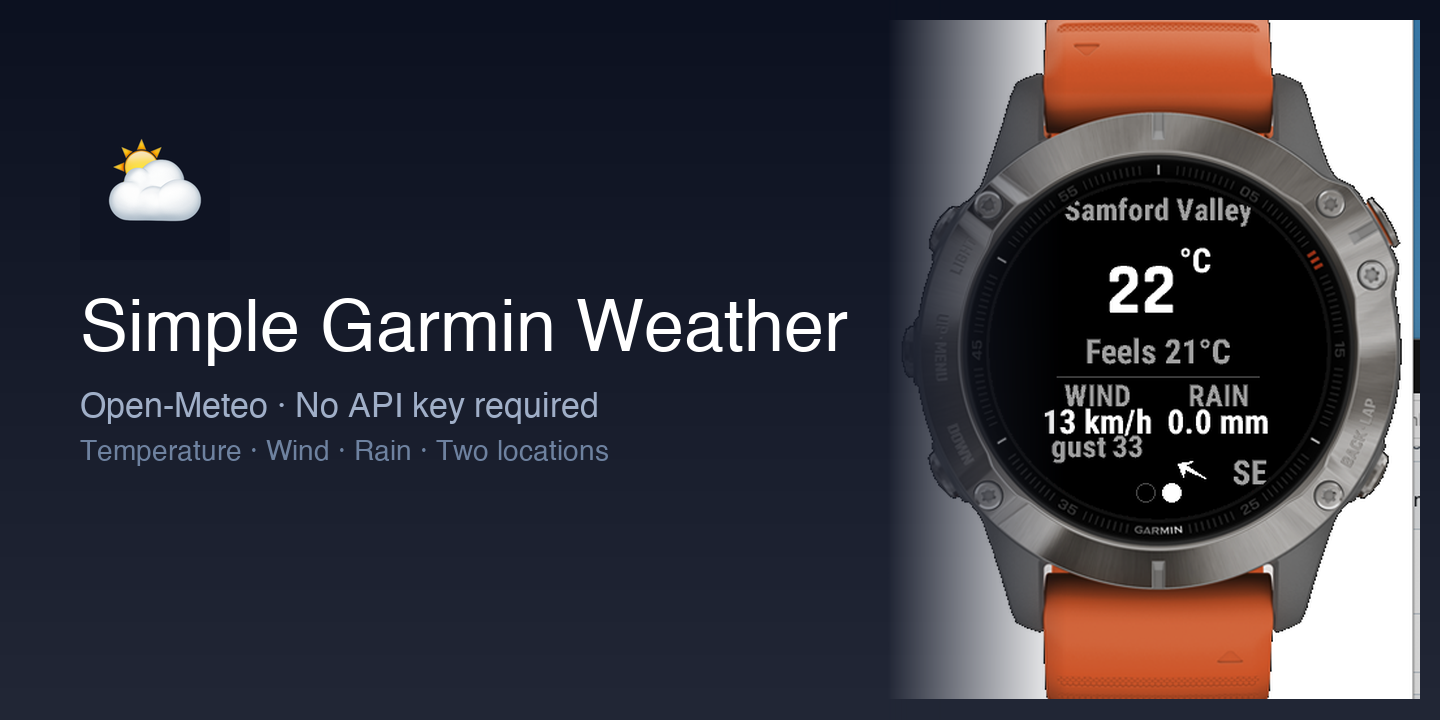
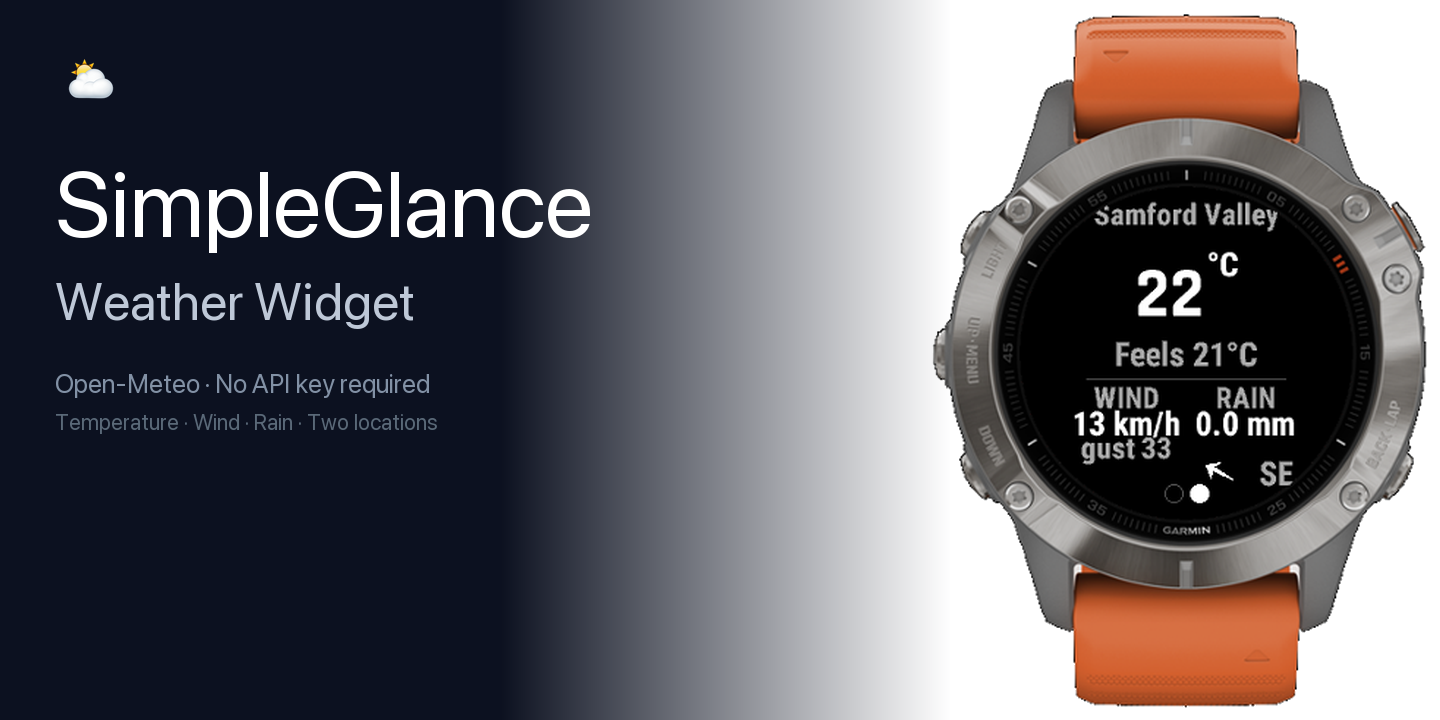
Rename to SimpleGlance Weather Widget; home location now editable via settings
- Rename app from "Simple Garmin Weather" to "SimpleGlance Weather Widget"
  to comply with Garmin trademark guidelines
- Regenerate hero (1440x720) and cover (500x500) store assets with new branding,
  dark-to-white gradient background, and colour-matched watch composite
- Add docs/generate_hero.py and docs/generate_cover.py for reproducible asset generation
- Add Home Location Name, Latitude, Longitude settings in properties.xml so users
  can configure their home location via Garmin Connect without editing source code
- Update WeatherView.mc and BackgroundService.mc to read home location from
  Application.Properties with safe fallbacks
- Update README to document new settings; update PRIVACY.md app name

diff --git a/docs/generate_hero.py b/docs/generate_hero.py
@@ -1,0 +1,111 @@
+"""
+Generates store_assets/hero_1440x720.png for the SimpleGlance Weather Widget
+Connect IQ store listing.
+
+Requirements: pip install pillow numpy
+Run from repo root: python docs/generate_hero.py
+"""
+
+from PIL import Image, ImageDraw, ImageFont
+import numpy as np
+from pathlib import Path
+
+ROOT     = Path(__file__).parent.parent
+FONT     = "/System/Library/Fonts/SFNS.ttf"
+BG_L     = np.array([12, 17, 32], dtype=float)
+WHITE    = (255, 255, 255)
+SUBWHITE = (190, 200, 215)
+GREY     = (130, 145, 165)
+DIMGREY  = (90, 105, 120)
+W, H     = 1440, 720
+GRAD_START, GRAD_END = 500, 950
+
+
+def grad_color(x: int) -> np.ndarray:
+    t = max(0.0, min(1.0, (x - GRAD_START) / (GRAD_END - GRAD_START)))
+    return (BG_L * (1 - t) + 255 * t).astype(np.uint8)
+
+
+def remove_watch_bg(watch_img: Image.Image, wx: int) -> Image.Image:
+    """Flood-fill white simulator background and replace with matching gradient colour."""
+    ww, wh = watch_img.size
+    tmp = watch_img.copy()
+    FILL = (1, 254, 1)
+    seeds = (
+        [(x, 0)      for x in range(0, ww, 6)] +
+        [(x, wh - 1) for x in range(0, ww, 6)] +
+        [(0, y)      for y in range(0, wh, 6)] +
+        [(ww - 1, y) for y in range(0, wh, 6)]
+    )
+    for seed in seeds:
+        if all(c > 200 for c in tmp.getpixel(seed)):
+            ImageDraw.floodfill(tmp, seed, FILL, thresh=40)
+
+    tmp_arr   = np.array(tmp)
+    watch_arr = np.array(watch_img)
+    bg_mask   = (tmp_arr[:, :, 0] == 1) & (tmp_arr[:, :, 1] == 254) & (tmp_arr[:, :, 2] == 1)
+    for px in range(ww):
+        col = grad_color(wx + px)
+        watch_arr[bg_mask[:, px], px] = col
+    return Image.fromarray(watch_arr, "RGB")
+
+
+def main():
+    f_title = ImageFont.truetype(FONT, 92)
+    f_sub   = ImageFont.truetype(FONT, 52)
+    f_meta  = ImageFont.truetype(FONT, 26)
+    f_feat  = ImageFont.truetype(FONT, 22)
+
+    # Watch
+    watch_raw    = Image.open(ROOT / "docs/screenshot_samford_watch.png").convert("RGB")
+    watch_h      = 700
+    scale        = watch_h / watch_raw.height
+    watch_w      = int(watch_raw.width * scale)
+    watch_scaled = watch_raw.resize((watch_w, watch_h), Image.LANCZOS)
+    wx           = W - watch_w - 10
+    wy           = (H - watch_h) // 2
+    watch_final  = remove_watch_bg(watch_scaled, wx)
+
+    # Background gradient
+    bg_arr = np.zeros((H, W, 3), dtype=np.uint8)
+    for x in range(W):
+        bg_arr[:, x] = grad_color(x)
+    hero = Image.fromarray(bg_arr, "RGB")
+    hero.paste(watch_final, (wx, wy))
+
+    draw = ImageDraw.Draw(hero)
+
+    # Icon
+    icon_src = Image.open(ROOT / "store_assets/icon_128x128.png").convert("RGBA")
+    icon     = icon_src.resize((72, 72), Image.LANCZOS)
+    i_arr    = np.array(icon)
+    i_arr[(i_arr[:, :, 0] < 30) & (i_arr[:, :, 1] < 30) & (i_arr[:, :, 2] < 40), 3] = 0
+    icon_c   = Image.fromarray(i_arr, "RGBA")
+    tile     = Image.new("RGBA", (72, 72), (12, 17, 32, 255))
+    tile.paste(icon_c, mask=icon_c.split()[3])
+    hero.paste(tile.convert("RGB"), (55, 45))
+
+    # Text
+    X  = 55
+    b1 = f_title.getbbox("SimpleGlance")
+    y1 = 148
+    draw.text((X, y1), "SimpleGlance", font=f_title, fill=WHITE)
+
+    b2 = f_sub.getbbox("Weather Widget")
+    y2 = y1 + b1[3] + 16
+    draw.text((X, y2), "Weather Widget", font=f_sub, fill=SUBWHITE)
+
+    b3 = f_meta.getbbox("Open-Meteo · No API key required")
+    y3 = y2 + b2[3] + 38
+    draw.text((X, y3), "Open-Meteo · No API key required", font=f_meta, fill=GREY)
+
+    y4 = y3 + b3[3] + 10
+    draw.text((X, y4), "Temperature · Wind · Rain · Two locations", font=f_feat, fill=DIMGREY)
+
+    out = ROOT / "store_assets/hero_1440x720.png"
+    hero.save(out)
+    print(f"Saved {out}")
+
+
+if __name__ == "__main__":
+    main()

diff --git a/docs/generate_cover.py b/docs/generate_cover.py
@@ -1,0 +1,110 @@
+"""
+Generates store_assets/cover_500x500.png for the SimpleGlance Weather Widget
+Connect IQ store listing.
+
+Requirements: pip install pillow numpy
+Run from repo root: python docs/generate_cover.py
+"""
+
+from PIL import Image, ImageDraw, ImageFont
+import numpy as np
+from pathlib import Path
+
+ROOT     = Path(__file__).parent.parent
+FONT     = "/System/Library/Fonts/SFNS.ttf"
+BG_L     = np.array([12, 17, 32], dtype=float)
+WHITE    = (255, 255, 255)
+GREY     = (130, 145, 165)
+DIMGREY  = (90, 105, 120)
+W, H     = 500, 500
+GRAD_START, GRAD_END = 180, 380
+
+
+def grad_color(x: int) -> np.ndarray:
+    t = max(0.0, min(1.0, (x - GRAD_START) / (GRAD_END - GRAD_START)))
+    return (BG_L * (1 - t) + 255 * t).astype(np.uint8)
+
+
+def remove_watch_bg(watch_img: Image.Image, wx: int) -> Image.Image:
+    """Flood-fill white simulator background and replace with matching gradient colour."""
+    ww, wh = watch_img.size
+    tmp = watch_img.copy()
+    FILL = (1, 254, 1)
+    seeds = (
+        [(x, 0)      for x in range(0, ww, 6)] +
+        [(x, wh - 1) for x in range(0, ww, 6)] +
+        [(0, y)      for y in range(0, wh, 6)] +
+        [(ww - 1, y) for y in range(0, wh, 6)]
+    )
+    for seed in seeds:
+        if all(c > 200 for c in tmp.getpixel(seed)):
+            ImageDraw.floodfill(tmp, seed, FILL, thresh=40)
+
+    tmp_arr   = np.array(tmp)
+    watch_arr = np.array(watch_img)
+    bg_mask   = (tmp_arr[:, :, 0] == 1) & (tmp_arr[:, :, 1] == 254) & (tmp_arr[:, :, 2] == 1)
+    for px in range(ww):
+        col = grad_color(wx + px)
+        watch_arr[bg_mask[:, px], px] = col
+    return Image.fromarray(watch_arr, "RGB")
+
+
+def main():
+    f_title = ImageFont.truetype(FONT, 36)
+    f_meta  = ImageFont.truetype(FONT, 17)
+    f_feat  = ImageFont.truetype(FONT, 14)
+
+    # Watch
+    watch_raw    = Image.open(ROOT / "docs/screenshot_samford_watch.png").convert("RGB")
+    watch_h      = 420
+    scale        = watch_h / watch_raw.height
+    watch_w      = int(watch_raw.width * scale)
+    watch_scaled = watch_raw.resize((watch_w, watch_h), Image.LANCZOS)
+    wx           = W - watch_w - 5
+    wy           = (H - watch_h) // 2
+    watch_final  = remove_watch_bg(watch_scaled, wx)
+
+    # Background gradient
+    bg_arr = np.zeros((H, W, 3), dtype=np.uint8)
+    for x in range(W):
+        bg_arr[:, x] = grad_color(x)
+    cover = Image.fromarray(bg_arr, "RGB")
+    cover.paste(watch_final, (wx, wy))
+
+    draw = ImageDraw.Draw(cover)
+
+    # Icon
+    icon_src = Image.open(ROOT / "store_assets/icon_128x128.png").convert("RGBA")
+    icon     = icon_src.resize((52, 52), Image.LANCZOS)
+    i_arr    = np.array(icon)
+    i_arr[(i_arr[:, :, 0] < 30) & (i_arr[:, :, 1] < 30) & (i_arr[:, :, 2] < 40), 3] = 0
+    icon_c   = Image.fromarray(i_arr, "RGBA")
+    tile     = Image.new("RGBA", (52, 52), (12, 17, 32, 255))
+    tile.paste(icon_c, mask=icon_c.split()[3])
+    cover.paste(tile.convert("RGB"), (20, 20))
+
+    # Title: 3 lines
+    X = 20
+    y = 90
+    for line in ["SimpleGlance", "Weather", "Widget"]:
+        b = f_title.getbbox(line)
+        draw.text((X, y), line, font=f_title, fill=WHITE)
+        y += b[3] + 10
+
+    # Subtitles
+    y += 30
+    for line in ["Open-Meteo", "No API key required"]:
+        b = f_meta.getbbox(line)
+        draw.text((X, y), line, font=f_meta, fill=GREY)
+        y += b[3] + 6
+
+    y += 8
+    draw.text((X, y), "Temp · Wind · Rain", font=f_feat, fill=DIMGREY)
+
+    out = ROOT / "store_assets/cover_500x500.png"
+    cover.save(out)
+    print(f"Saved {out}")
+
+
+if __name__ == "__main__":
+    main()

diff --git a/README.md b/README.md
@@ -1,4 +1,4 @@
-# Simple Garmin Weather (Open-Meteo)
+# SimpleGlance Weather Widget (Open-Meteo)
 
 ![Widget on Fenix 6 Pro](docs/screenshot_samford_watch.png)
 
@@ -36,18 +36,11 @@ Fenix 5 Plus, 5S Plus, 5X Plus, Fenix 6 / 6S / 6X (all variants), Fenix 7 / 7S /
 | Setting | Default | Options |
 |---------|---------|---------|
 | Background Refresh Interval | 30 min | 15 / 30 / 60 min |
+| Home Location Name | Samford Valley | Any text (max 32 chars) |
+| Home Latitude | -27.3705 | Decimal degrees (e.g. -27.3705) |
+| Home Longitude | 152.8691 | Decimal degrees (e.g. 152.8691) |
 
-Change settings via the **Garmin Connect app** on your phone → My Device → Apps & Widgets → Simple Garmin Weather.
-
-## Home Location
-
-The default home location is **Samford Valley, QLD, Australia** (-27.3705°S, 152.8691°E). To change it, edit the constants in `source/WeatherView.mc` and `source/BackgroundService.mc`:
-
-```
-private const SAMFORD_LAT as Float = -27.3705f;
-private const SAMFORD_LON as Float = 152.8691f;
-private const SAMFORD_NAME as String = "Samford Valley";
-```
+Change settings via the **Garmin Connect app** on your phone → My Device → Apps & Widgets → SimpleGlance Weather Widget.
 
 ## Building
 

diff --git a/PRIVACY.md b/PRIVACY.md
@@ -1,10 +1,10 @@
-# Privacy Policy — Simple Garmin Weather
+# Privacy Policy — SimpleGlance Weather Widget
 
-**Last updated: 15 May 2026**
+**Last updated: 16 May 2026**
 
 ## Overview
 
-Simple Garmin Weather ("the app") is a Garmin Connect IQ widget that displays weather conditions for your current GPS location and a fixed home location. This policy explains what data the app accesses and how it is used.
+SimpleGlance Weather Widget ("the app") is a Connect IQ widget that displays weather conditions for your current GPS location and a fixed home location. This policy explains what data the app accesses and how it is used.
 
 ## Data Collected
 
